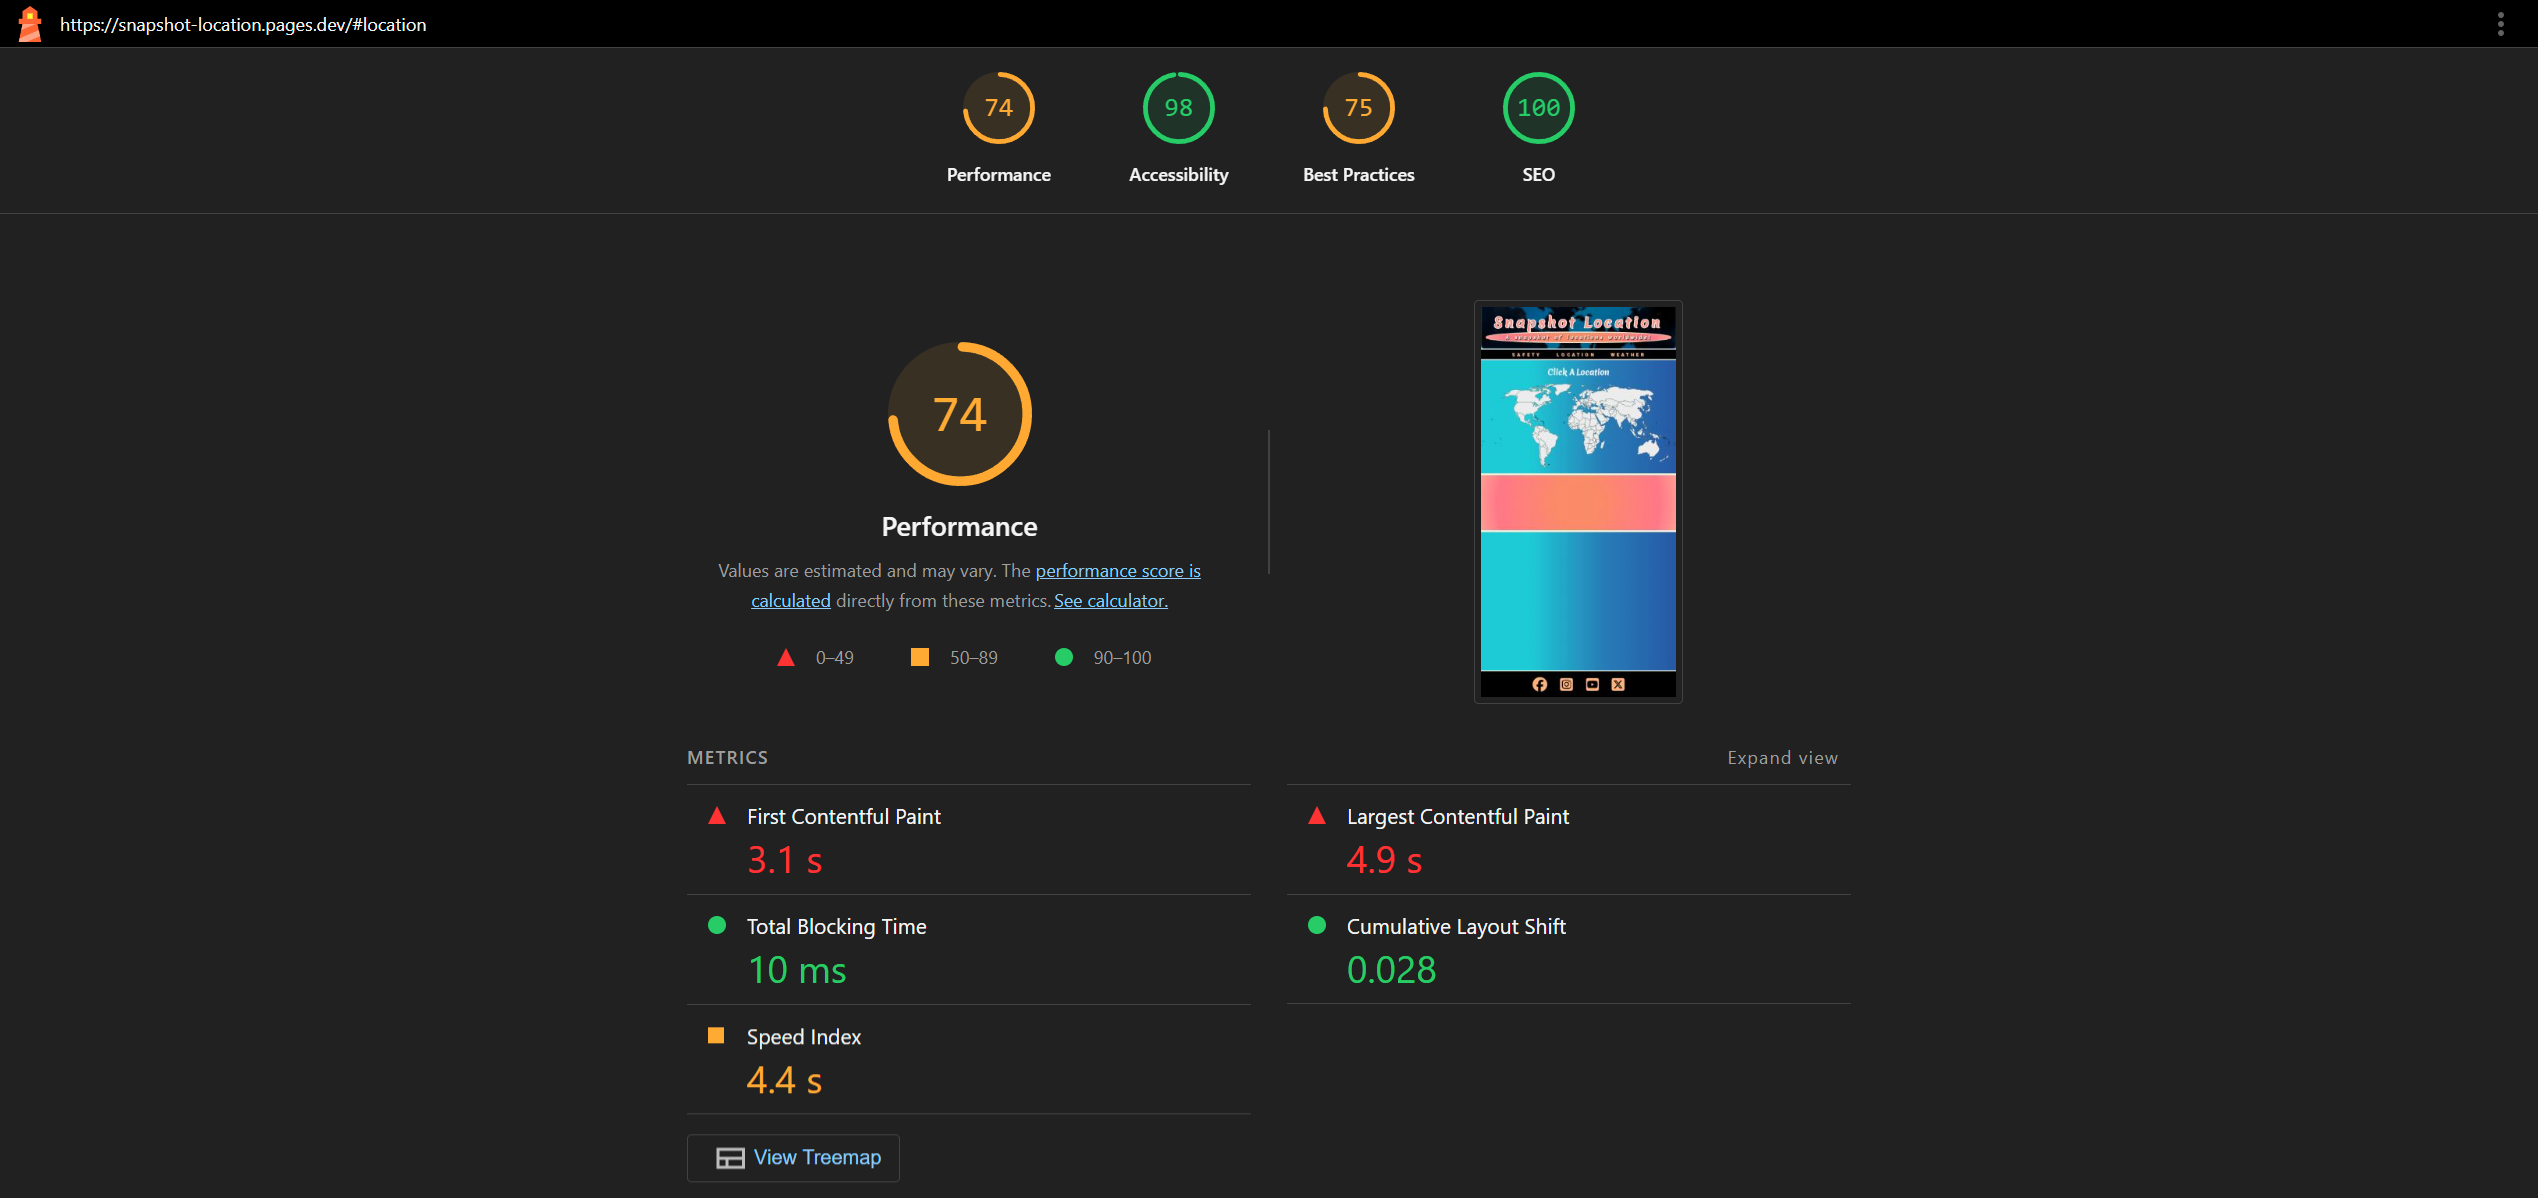
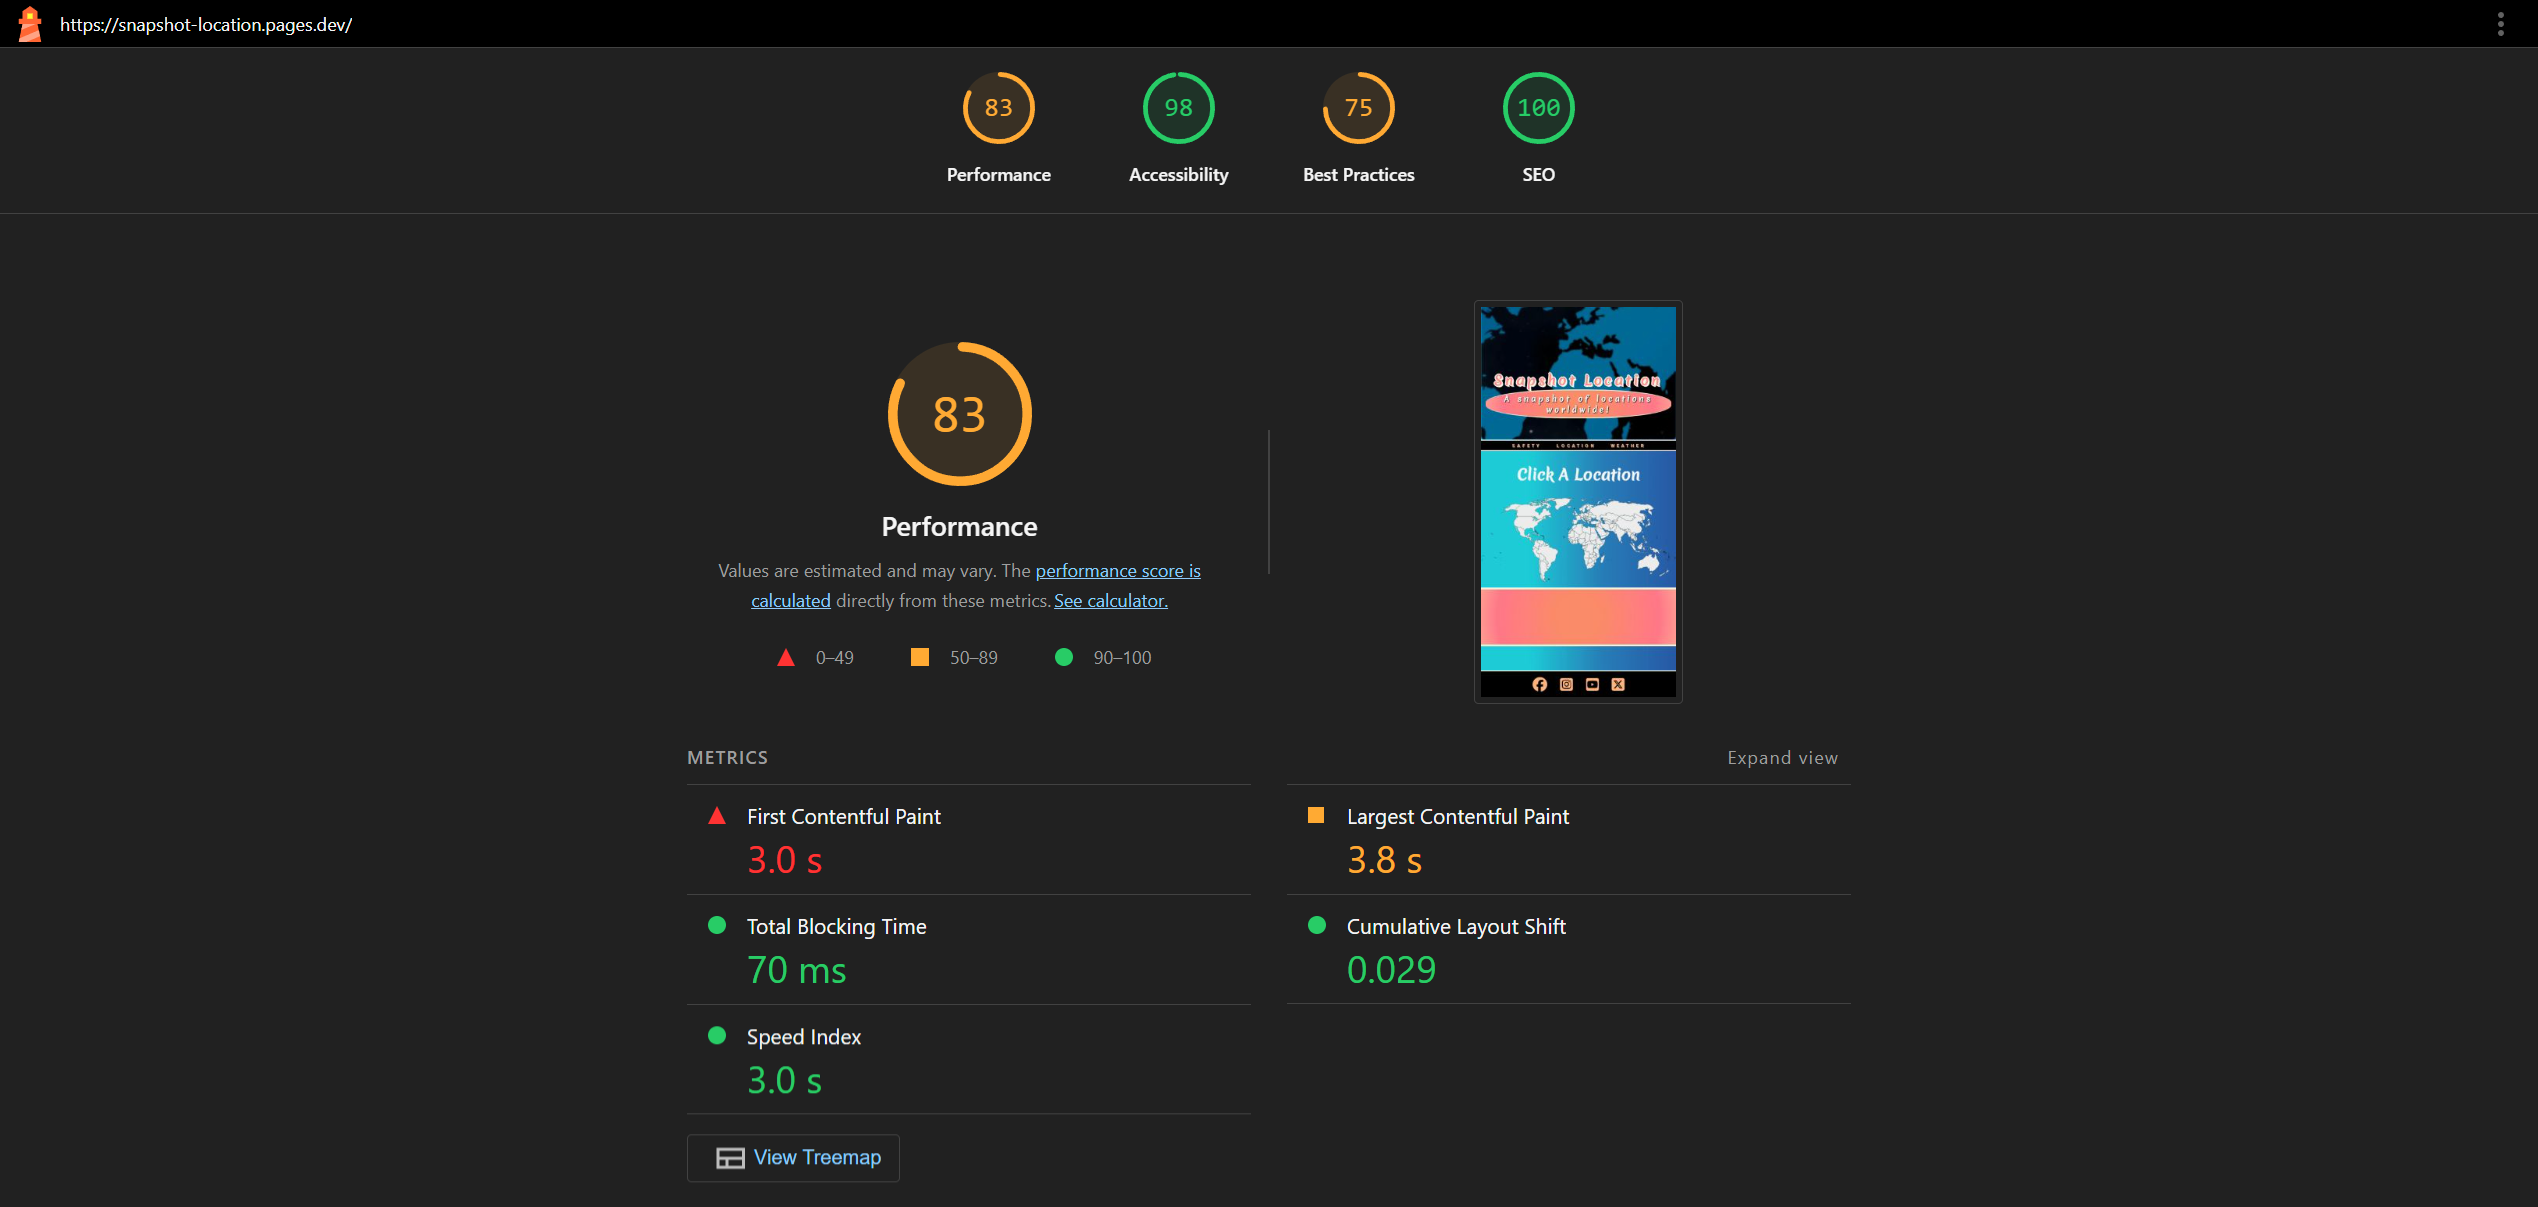
feat:added smaller hero images for smaller devices

diff --git a/index.html b/index.html
@@ -15,6 +15,7 @@
  <link rel="icon" href="/favicon.ico" type="image/x-icon" sizes="any">
  <link rel="icon" type="image/png" href="/favicon-32x32.png" sizes="32x32">
   <link rel="preload" as="image" href="assets/img/map_banner_4k.avif" fetchpriority="high"/>
+  <link rel="preload" as="image" href="assets/img/map_banner_small.avif" type="image/avif">
   <link rel="stylesheet" href="style.css">
   <link rel="preconnect" href="https://fonts.googleapis.com">
   <link rel="preconnect" href="https://fonts.gstatic.com" crossorigin>
@@ -35,7 +36,17 @@
 <body>
   <!-- Header -->
   <header class="text-center page-header" id="header">
-    <img src="assets/img/map_banner_4k.avif" alt="Hero map banner" id="hero-img" fetchpriority="high"/>
+   <picture>
+  <source media="(min-width: 1200px)" type="image/avif" srcset="assets/img/map_banner_4k.avif">
+  <source media="(min-width: 768px)" type="image/avif" srcset="assets/img/map_banner_fhd.avif">
+  <source type="image/avif" srcset="assets/img/map_banner_hd.avif"> <!-- fallback for <1024px -->
+  <img src="assets/img/map_banner_backup.webp"
+       alt="Hero map banner"
+       id="hero-img"
+       width="1024"
+       height="878"
+       fetchpriority="high">
+</picture>
     <div class="vertical-center">
       <h1 id="brand">Snapshot Location</h1>
       <p id="tagline">A snapshot of locations worldwide!</p>
